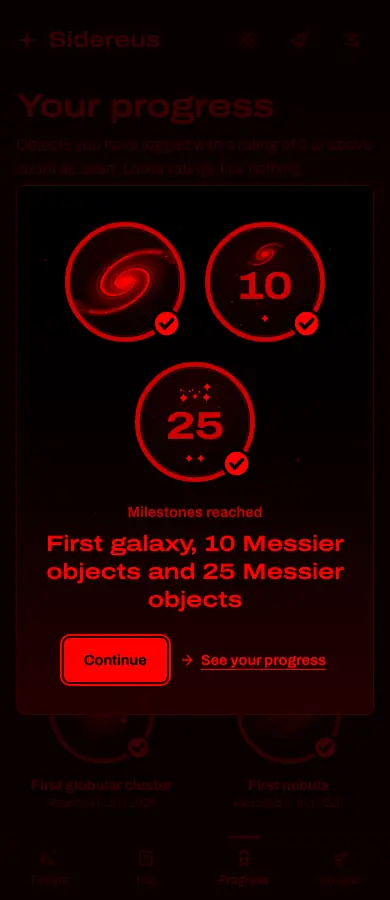
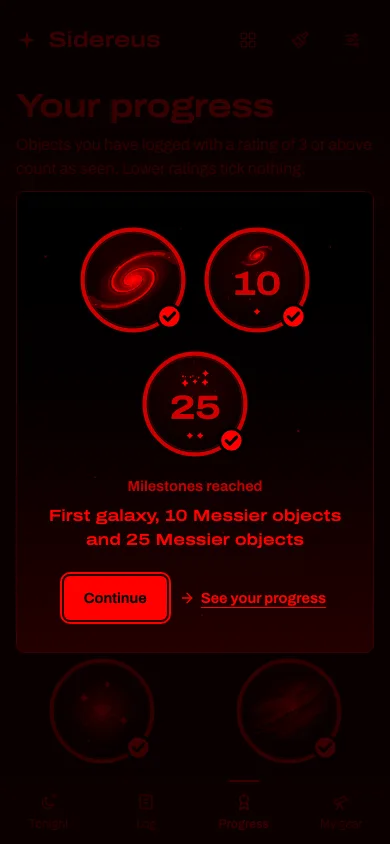
fix(ui-progress-rewards): impl review F3 and F5, the owner's answers (2026-10-17)
- F3: the collapsed Band keeps its h2 in the heading row above the <details>; the <summary> is only the
  toggle, "Show / Hide the Caldwell list" (EN + PL), its text and accessible name swapped by the open state.
  The journey asserts the h2 by role, no heading in the summary, both names, and the tiles hidden then shown.
- F5: the celebration dialog uses 112 px badges for two or more milestones (128 px for one), and the joined
  names at the body role, so Continue stays wholly on a 320 x 568 screen in English and Polish (e2e, with the
  dialog scrolled to its top). Dialog and Caldwell-band screenshots retaken as WebP.

Refs: #215

diff --git a/tests/e2e/observing-milestones.spec.ts b/tests/e2e/observing-milestones.spec.ts
@@ -1,6 +1,7 @@
 import { expect, type Locator, type Page } from "@playwright/test";
 
 import { en } from "@/i18n/messages/en";
+import { pl } from "@/i18n/messages/pl";
 import { LOCALE_COOKIE } from "@/lib/preferences";
 import type { MilestoneKey } from "@/lib/progress/milestones";
 import { createFormatter } from "@/lib/tonight/format";
@@ -144,6 +145,16 @@ test("records a milestone once, at save, keeps it listed, and the progress page 
   await expect(page.getByRole("link", { name: progress.toTonight })).toBeVisible();
   await expect(page.locator("#progress-milestones-heading")).toHaveText(copy.title);
   await expect(page.locator("[data-milestone]")).toHaveCount(11);
+  // The Caldwell band starts closed (owner P8 A). Its heading stays a real h2, outside the disclosure, and the summary
+  // is only the toggle, named for what it does (owner, 2026-10-17, impl review F3).
+  await expect(page.getByRole("heading", { level: 2, name: new RegExp(`^${progress.caldwell} · `) })).toBeVisible();
+  const caldwellToggle = page.locator("details[data-band-collapsible] > summary");
+  await expect(caldwellToggle.locator("h2")).toHaveCount(0);
+  await expect(caldwellToggle).toHaveAccessibleName(progress.caldwellShow);
+  await expect(chip("NGC188")).toBeHidden();
+  await caldwellToggle.click();
+  await expect(caldwellToggle).toHaveAccessibleName(progress.caldwellHide);
+  await expect(chip("NGC188")).toBeVisible();
 
   // 2. M31 rated 2 reaches nothing and ticks nothing: the first galaxy is still ahead, the count stays 0.
   await logEntry(page, "/log/new?object=M31&from=log", 2, /\/log(\?|$)/);
@@ -331,4 +342,36 @@ test("celebrates a milestone once, at save", async ({ page, pinnedNow }) => {
   expect(night).toBe(madridDateDaysAgo(3, pinnedNow()));
   await expect(page.locator("[data-toast]")).toContainText(en.log.list.saved({ object: "M31" }));
   await expectNoCelebration(page);
+});
+
+test("a dialog that names several milestones keeps Continue on a 320 × 568 screen, in English and Polish", async ({
+  page,
+  context,
+  baseURL,
+}) => {
+  test.setTimeout(120_000);
+  await onboardInMadrid(page, "e2e-milestones-several");
+  await page.setViewportSize({ width: 320, height: 568 });
+  const dialog = openCelebration(page);
+  // A save that reaches three milestones lands on a page with three `milestone` params; GearShell opens the dialog
+  // from them, as here. Two or more names get the 112 px badges, two to a row, and the names at the body role (owner,
+  // 2026-10-17, impl review F5). `showModal()` focuses Continue, which scrolls an overflowing dialog to it and hides the
+  // badges, so the check scrolls the dialog back to its top first: from there, Continue must be wholly on screen.
+  const expectContinueOnScreen = async (label: string) => {
+    await expect(dialog).toHaveCount(1);
+    await expect(dialog.locator("[data-milestone-badge]")).toHaveCount(3);
+    await dialog.evaluate((element) => {
+      element.scrollTop = 0;
+    });
+    expect(await dialog.evaluate((element) => element.scrollTop)).toBe(0);
+    await expect(dialog.getByRole("button", { name: label })).toBeInViewport({ ratio: 1 });
+  };
+  await page.goto("/log/progress?milestone=first-galaxy&milestone=messier-10&milestone=messier-25");
+  const badge = await dialog.locator('[data-milestone-badge="first-galaxy"]').boundingBox();
+  expect(badge?.width).toBe(112);
+  await expectContinueOnScreen(copy.celebration.continue);
+  // Polish names are the longest copy.
+  await context.addCookies([{ name: LOCALE_COOKIE, value: "pl", url: baseURL ?? "http://localhost:4321" }]);
+  await page.goto("/log/progress?milestone=first-galaxy&milestone=messier-10&milestone=messier-25");
+  await expectContinueOnScreen(pl.progress.milestones.celebration.continue);
 });

diff --git a/src/i18n/messages/en.ts b/src/i18n/messages/en.ts
@@ -1517,6 +1517,9 @@ export const en = {
     /** Numbers arrive pre-formatted: "47 / 110". */
     count: (p: { seen: string; total: string }) => `${p.seen} / ${p.total}`,
     caldwellNote: "The list covers the Caldwell objects visible from mid-northern latitudes.",
+    /** The Caldwell band's toggle (ui-progress-rewards, impl review F3): its visible text and accessible name. */
+    caldwellShow: "Show the Caldwell list",
+    caldwellHide: "Hide the Caldwell list",
     seenHeading: "Seen so far",
     seen: "seen",
     notSeen: "not seen",

diff --git a/src/i18n/messages/pl.ts b/src/i18n/messages/pl.ts
@@ -1256,6 +1256,8 @@ export const pl = {
     caldwell: "Caldwell",
     count: (p: { seen: string; total: string }) => `${p.seen} / ${p.total}`,
     caldwellNote: "Lista obejmuje obiekty Caldwella widoczne ze średnich szerokości północnych.",
+    caldwellShow: "Pokaż listę Caldwella",
+    caldwellHide: "Ukryj listę Caldwella",
     seenHeading: "Zaobserwowane do tej pory",
     seen: "zaobserwowano",
     notSeen: "jeszcze nie zaobserwowano",

diff --git a/CLAUDE.md b/CLAUDE.md
@@ -8,9 +8,9 @@ This file provides guidance to Claude Code (claude.ai/code) when working with co
 
 Product code so far: the pure sky engine in `src/lib/engine/` and the generated Messier and Caldwell catalogues in `src/lib/catalogue/` (roadmap F-01, S-03), plus per-user observing sites, telescopes and eyepieces managed under `/gear` (S-01), and the gated `/tonight` dashboard (S-02, S-11): the verdict and dark window over tiles that open focused pages, with every object that cleared the bar ranked on `/tonight/targets` by the engine's pure scoring (`score.ts`, `ranking.ts`, `eyepieces.ts`, `verdict.ts`), with the Open-Meteo forecast behind a Workers KV cache in `src/lib/forecast/` (only `kv-cache.ts` imports `cloudflare:workers`; tests pass an in-memory cache). Tonight also shows the next seven nights at the selected site (S-05): `sevenNightOutlook` in the engine gives nights 1-3 a verdict and nights 4-7 only a cloud outlook, rendered by `NightStrip.astro` on `/tonight/nights` (since tonight-dashboard, `/tonight` is a dashboard of tiles opening focused pages for the targets, the Session plan, the Moon, the planets and the nights). The Session plan (S-05, session-plan-timeline) is `TonightView.sessionPlan`, built only with the `withSessionPlan` option of `loadTonightFor` (the dashboard and `/tonight/plan` pass it): the night from sunset to sunrise on one axis, drawn by `SessionTimeline.astro` on `/tonight/plan` as the night's lines (sunset, dark window, Moon, sunrise, one per line), a legend, and one row per recommended target by best time: "Best 22:40 · window 21:40–23:10 · SW, 45°" above a static server SVG altitude curve (each row carries its `track` of altitudes over the axis and `peakAltitudeDeg`, the plan `minAltitudeDeg` and `trackStep`; the geometry is the pure `src/lib/tonight/altitude-curve.ts`, horizon to zenith on one scale), with the dark window shaded, the minimum altitude dashed, the best window thicker and a dot at best (the dashboard's tile shows only the next target). Tonight shows a Site card and a Telescope card (S-05 / S-08, ui-user-adjustments, `GearCard.astro`), each with a select once the user owns two or more: `?site=<id>` and `?telescope=<id>` on the page shell are remembered in the `sidereus-site` / `sidereus-telescope` cookies and reach the `TonightContent` server island as props (ids only, never coordinates), which resolves them against the user's own sites and telescopes (`src/lib/tonight/gear-choice.ts`, falling back to the oldest). The verdict check (M-2 S-07, `src/lib/sky-checks/`) stores the sky headline each signed-in Tonight view shows in the per-user `sky_checks` table: `TonightContent` calls the `record_sky_verdict` RPC through its shared `defer` (the Worker's `waitUntil`), fire and forget, the one database write from a GET in the app; the RPC is idempotent per (user, site, night) and decides with the database clock, overwriting only before the dark window starts and never after an answer. Tonight's `SkyCheckCard` asks about the newest open night of the last two, and `/log/sky` lists every night whose dark window has started with the tally (`claim.ts` holds the match rule); both post plain Astro forms to `POST /api/log/sky/[id]`.
 
-Observing progress (M-3 S-05, observing-progress): `src/lib/progress/` holds `observingProgress(entries)`, one pure rule from log entries to the Messier and Caldwell checklists (110 / 61, catalogue order) and the planets' and Moon's first nights, over `seenSummaries` (entries rated 3 or above, each night once), so progress and the ranking's seen tag cannot drift; its input is `observationStore.listSeenEntries`, which pages the read past PostgREST's 1000-row cap (`night desc, target asc, id asc`; the first page asks for an exact count, later pages advance by the rows received and stop at it, so any `max_rows` reads it all in one request normally), the one seen read for Tonight and the page alike. Tonight marks every target never seen (`notSeenYet`) with `NotSeenMark.astro`: a tooltip button inside a card's `<h3>` (`NotSeenTip`, one `data-open` state driven by `not-seen-tip.ts`) or, where a button is not allowed (the tile's link, a row's `<summary>`), a static icon explained by `NotSeenLegend`. `/log/progress` (`ChecklistGrid`, `SeenList`, the fourth destination in the Topbar and the TabBar) is network-only like `/log`. **Progress rewards** (ui-progress-rewards, S-11): `src/lib/progress/object-family.ts` folds OpenNGC's types into six display families (`OBJECT_FAMILIES`, `FAMILY_OF`, `familyCounts` for a list's seen / total per family; island-safe), and `src/components/progress/progress-icons.ts` is their one icon vocabulary (`OBJECT_FAMILY_ICONS`: lucide `Galaxy` plus five icons drawn with `createLucideIcon`; one concept per icon, none reusing an icon that means something else; kept out of islands by `island-imports.test.ts`). The families are a display grouping: "First nebula" follows `NEBULA_TYPES`, which counts a planetary nebula, so M57 alone reaches it while the legend's "Nebulae" stays at 0 (both rules are right). Each checklist is a `ChecklistLegend` (icon, plural name, seen / total per family) over `ChecklistGrid` tiles, two per row on a phone and four from `sm` (icon, "M31" / "C14", the name: the common name, else a Caldwell designation, else the family's name); a tile's icon is one `<use>` of `ObjectTypeSprite` (a hidden `<symbol>` sheet, rendered once per document: the page and `/design`; hidden by size, never `display: none`). A seen tile is a 2 px `action-border` on `action-surface`, the icon in `primary-strong`, a semibold number and a corner check; not seen a 1 px `border`, all muted. Tiles are not interactive and read aloud through one `sr-only` sentence (`data-tile-sr`, "M31, Andromeda Galaxy, galaxy, seen"). The phone page stays short (owner P8 A): the Caldwell band is `Band`'s `collapsed` option (its heading in the `<summary>` of a native `<details>`, closed on load; Astro only, `band.tsx` has no twin) and each `SeenList` sits in a closed `<details>` ("Seen so far · 5"); no script, no stored state, everything stays in the DOM. Both share `ui/disclosure.ts` (`DISCLOSURE_SUMMARY_CLASS`, `DISCLOSURE_CHEVRON_CLASS`), and each chevron turns through a named group on its own `<details>` (`group/band`, `group/seen`), never a bare `group`, whose `group-open:` would follow any open ancestor. The two grids plus the sprite are pinned under a markup budget in `observing-milestones.spec.ts` (`CHECKLIST_MARKUP_BUDGET`, measured in the change's `implementation-notes.md`). e2e hooks: `data-family`, `data-tile-sr`, `data-legend-family` / `data-legend-count`, `data-milestone-badge`.
+Observing progress (M-3 S-05, observing-progress): `src/lib/progress/` holds `observingProgress(entries)`, one pure rule from log entries to the Messier and Caldwell checklists (110 / 61, catalogue order) and the planets' and Moon's first nights, over `seenSummaries` (entries rated 3 or above, each night once), so progress and the ranking's seen tag cannot drift; its input is `observationStore.listSeenEntries`, which pages the read past PostgREST's 1000-row cap (`night desc, target asc, id asc`; the first page asks for an exact count, later pages advance by the rows received and stop at it, so any `max_rows` reads it all in one request normally), the one seen read for Tonight and the page alike. Tonight marks every target never seen (`notSeenYet`) with `NotSeenMark.astro`: a tooltip button inside a card's `<h3>` (`NotSeenTip`, one `data-open` state driven by `not-seen-tip.ts`) or, where a button is not allowed (the tile's link, a row's `<summary>`), a static icon explained by `NotSeenLegend`. `/log/progress` (`ChecklistGrid`, `SeenList`, the fourth destination in the Topbar and the TabBar) is network-only like `/log`. **Progress rewards** (ui-progress-rewards, S-11): `src/lib/progress/object-family.ts` folds OpenNGC's types into six display families (`OBJECT_FAMILIES`, `FAMILY_OF`, `familyCounts` for a list's seen / total per family; island-safe), and `src/components/progress/progress-icons.ts` is their one icon vocabulary (`OBJECT_FAMILY_ICONS`: lucide `Galaxy` plus five icons drawn with `createLucideIcon`; one concept per icon, none reusing an icon that means something else; kept out of islands by `island-imports.test.ts`). The families are a display grouping: "First nebula" follows `NEBULA_TYPES`, which counts a planetary nebula, so M57 alone reaches it while the legend's "Nebulae" stays at 0 (both rules are right). Each checklist is a `ChecklistLegend` (icon, plural name, seen / total per family) over `ChecklistGrid` tiles, two per row on a phone and four from `sm` (icon, "M31" / "C14", the name: the common name, else a Caldwell designation, else the family's name); a tile's icon is one `<use>` of `ObjectTypeSprite` (a hidden `<symbol>` sheet, rendered once per document: the page and `/design`; hidden by size, never `display: none`). A seen tile is a 2 px `action-border` on `action-surface`, the icon in `primary-strong`, a semibold number and a corner check; not seen a 1 px `border`, all muted. Tiles are not interactive and read aloud through one `sr-only` sentence (`data-tile-sr`, "M31, Andromeda Galaxy, galaxy, seen"). The phone page stays short (owner P8 A): the Caldwell band is `Band`'s `collapsed` option (the content in a native `<details>`, closed on load; the heading stays a real `h2` in the band's heading row above it, and the `<summary>` is only the toggle, "Show the Caldwell list" / "Hide the Caldwell list" (`progress.caldwellShow` / `caldwellHide`), its visible text and accessible name swapped by the open state (owner, 2026-10-17: never a heading inside a `<summary>`); Astro only, `band.tsx` has no twin) and each `SeenList` sits in a closed `<details>` ("Seen so far · 5"); no script, no stored state, everything stays in the DOM. Both share `ui/disclosure.ts` (`DISCLOSURE_SUMMARY_CLASS`, `DISCLOSURE_CHEVRON_CLASS`), and each chevron turns through a named group on its own `<details>` (`group/band`, `group/seen`), never a bare `group`, whose `group-open:` would follow any open ancestor. The two grids plus the sprite are pinned under a markup budget in `observing-milestones.spec.ts` (`CHECKLIST_MARKUP_BUDGET`, measured in the change's `implementation-notes.md`). e2e hooks: `data-family`, `data-tile-sr`, `data-legend-family` / `data-legend-count`, `data-milestone-badge`.
 
-Observing milestones (M-3 S-06, observing-milestones): `src/lib/progress/milestones.ts` derives the 11 `MILESTONES` from `observingProgress` (first Moon, first planet, all planets, first galaxy, globular and nebula, 10 / 25 / 50 / 110 Messier, all Caldwell), each with the night it was reached, and `withStored` lays the stored record over that derivation, so a milestone outlives the entry that reached it. The `observing_milestones` table keeps each milestone once per user (unique `(user_id, key)`); `milestoneStore.record` (`src/lib/observations/milestone-store.ts`) inserts ignoring duplicates and returns the keys it actually stored, so two saves at once cannot both celebrate. RLS lets a user write their own rows directly, accepted by the owner (a forged row fools only its author) and pinned in `tests/db/milestones.test.ts`; a new milestone needs a new migration widening the key check (the test keeps SQL and TypeScript in step). `reachedBySave` in `src/lib/observations/celebrate.ts` runs the order inside each save route: a counting save (a create or an edit rated 3 or above) reads `before`, writes, reads `after`, records `reached(before)` ∪ `reached(after)` in one insert and celebrates `newlyReached` ∩ inserted; an edit to 1-2 or a delete reads and records `before` first, then writes, and never celebrates; a create rated 1-2 does nothing. A failed milestone read or record never blocks the write: `reachedBySave` logs through `logFailure` (steps `milestones.read-create|edit|delete`, `milestones.record-create|edit|delete`, and `milestones.list` and `progress.seen` on the progress page; a fixed line with a shaped name and code, never a message). The redirect carries the reached keys as repeated `milestone` params (`withMilestones`, fixed `MILESTONES` keys, never a value; `milestone` is in the service worker's `NOTICE_PARAMS` (`src/lib/offline/copies.ts`), so a Tonight page that carries it is never stored). `GearShell` renders `MilestoneCelebration.astro` for a signed-in user whose URL has valid keys (`readMilestoneParam`): a native modal `<dialog data-milestone-celebration>` on a night-sky card (the reached milestones' badges, plural label, the names, Continue, "See your progress"; no timer, no date, Esc closes; on close focus goes to `<main>` via `focusMain` from `toasts.ts`, and a save toast's timer waits for it, `celebrationHolding`), which its script opens with `showModal()` and, as it opens, removes the `milestone` params with `history.replaceState` (`withoutParams` from `src/lib/toasts.ts`), so a reload never replays it; the save's own toast shows beside it, and e2e finds the dialog by its attribute, never the toast region. The Milestones band on `/log/progress` (`MilestoneList`) lists all 11, reached (night) or ahead (progress), and is the same rule's persistent view. Since ui-progress-rewards each milestone is a `MilestoneBadge` (shared by `MilestoneList`, `md` 112 px in a 2 / 4-column grid, and the celebration dialog, `lg` 128 px, which shows the reached milestones' badges instead of the old `Award`): one SVG in a 120-unit space with the disc, the milestone's own illustration, the ring, the progress arc and the check pip, in a `night-sky` scope (a navy night window in the light theme, owner 2026-10-17). Reached: sky disc, full art, solid `action-border` ring, pip; ahead: `surface` disc, the art at `opacity-30 dark:opacity-40 red:opacity-60`, a dashed `control-border` ring and, with progress above 0, a solid, wider `primary-strong` arc (`pathLength` 100). The art lives in `src/components/progress/badge-art/<Key>Art.astro`, generated from the owner-approved round by `scripts/badge-art/port.mjs` (`npm run badge-art:port`; change the art in `scripts/badge-art/render.mjs`, whose SVG sources sit in `scripts/badge-art/art/`, and re-run, never by hand; `npm run badge-art:render` draws comparison sheets as PNGs into the gitignored `scripts/badge-art/out/`, never committed): tokens only (`var(--…)`), value steps by `opacity`, detail by shape so red mode reads, ids prefixed by the badge's `idBase`; the large full-red areas (the Moon's body, the count numerals) step down one value in red (`red:opacity-80`). `MilestoneBadge` picks the art in an exhaustive `switch` (a `never` default), so a milestone without art fails `astro check` (a key → component record would not pass the type-aware lint, which types an .astro component used as a value as `error`).
+Observing milestones (M-3 S-06, observing-milestones): `src/lib/progress/milestones.ts` derives the 11 `MILESTONES` from `observingProgress` (first Moon, first planet, all planets, first galaxy, globular and nebula, 10 / 25 / 50 / 110 Messier, all Caldwell), each with the night it was reached, and `withStored` lays the stored record over that derivation, so a milestone outlives the entry that reached it. The `observing_milestones` table keeps each milestone once per user (unique `(user_id, key)`); `milestoneStore.record` (`src/lib/observations/milestone-store.ts`) inserts ignoring duplicates and returns the keys it actually stored, so two saves at once cannot both celebrate. RLS lets a user write their own rows directly, accepted by the owner (a forged row fools only its author) and pinned in `tests/db/milestones.test.ts`; a new milestone needs a new migration widening the key check (the test keeps SQL and TypeScript in step). `reachedBySave` in `src/lib/observations/celebrate.ts` runs the order inside each save route: a counting save (a create or an edit rated 3 or above) reads `before`, writes, reads `after`, records `reached(before)` ∪ `reached(after)` in one insert and celebrates `newlyReached` ∩ inserted; an edit to 1-2 or a delete reads and records `before` first, then writes, and never celebrates; a create rated 1-2 does nothing. A failed milestone read or record never blocks the write: `reachedBySave` logs through `logFailure` (steps `milestones.read-create|edit|delete`, `milestones.record-create|edit|delete`, and `milestones.list` and `progress.seen` on the progress page; a fixed line with a shaped name and code, never a message). The redirect carries the reached keys as repeated `milestone` params (`withMilestones`, fixed `MILESTONES` keys, never a value; `milestone` is in the service worker's `NOTICE_PARAMS` (`src/lib/offline/copies.ts`), so a Tonight page that carries it is never stored). `GearShell` renders `MilestoneCelebration.astro` for a signed-in user whose URL has valid keys (`readMilestoneParam`): a native modal `<dialog data-milestone-celebration>` on a night-sky card (the reached milestones' badges, plural label, the names, Continue, "See your progress"; no timer, no date, Esc closes; on close focus goes to `<main>` via `focusMain` from `toasts.ts`, and a save toast's timer waits for it, `celebrationHolding`), which its script opens with `showModal()` and, as it opens, removes the `milestone` params with `history.replaceState` (`withoutParams` from `src/lib/toasts.ts`), so a reload never replays it; the save's own toast shows beside it, and e2e finds the dialog by its attribute, never the toast region. The Milestones band on `/log/progress` (`MilestoneList`) lists all 11, reached (night) or ahead (progress), and is the same rule's persistent view. Since ui-progress-rewards each milestone is a `MilestoneBadge` (shared by `MilestoneList`, `md` 112 px in a 2 / 4-column grid, and the celebration dialog, which shows the reached milestones' badges instead of the old `Award`: `lg` 128 px for one, `md` 112 px, two to a row, for two or more, with the joined names at the body role instead of the title role, so Continue stays on a 320 × 568 screen in both languages, owner 2026-10-17, pinned in `observing-milestones.spec.ts`): one SVG in a 120-unit space with the disc, the milestone's own illustration, the ring, the progress arc and the check pip, in a `night-sky` scope (a navy night window in the light theme, owner 2026-10-17). Reached: sky disc, full art, solid `action-border` ring, pip; ahead: `surface` disc, the art at `opacity-30 dark:opacity-40 red:opacity-60`, a dashed `control-border` ring and, with progress above 0, a solid, wider `primary-strong` arc (`pathLength` 100). The art lives in `src/components/progress/badge-art/<Key>Art.astro`, generated from the owner-approved round by `scripts/badge-art/port.mjs` (`npm run badge-art:port`; change the art in `scripts/badge-art/render.mjs`, whose SVG sources sit in `scripts/badge-art/art/`, and re-run, never by hand; `npm run badge-art:render` draws comparison sheets as PNGs into the gitignored `scripts/badge-art/out/`, never committed): tokens only (`var(--…)`), value steps by `opacity`, detail by shape so red mode reads, ids prefixed by the badge's `idBase`; the large full-red areas (the Moon's body, the count numerals) step down one value in red (`red:opacity-80`). `MilestoneBadge` picks the art in an exhaustive `switch` (a `never` default), so a milestone without art fails `astro check` (a key → component record would not pass the type-aware lint, which types an .astro component used as a value as `error`).
 
 Sky events (M-3 S-07, sky-events): `skyEvents(site, fromNight, nights, darkThresholdDeg)` (`src/lib/engine/events.ts`, pure; `EVENT_WINDOW_NIGHTS` = 30 nights from the selected one) returns the window's events in moment order: eclipses, greatest elongations and oppositions (searched in `events.ts`), close Moon-planet and planet-planet pairings within 5° computed from the site (`pairings.ts`) and meteor-shower peaks (`meteors.ts`, found by `Search` over the Sun's J2000 longitude, never the of-date `SearchSunLongitude`). **A solar eclipse stays until its partial phase ends** (owner decision A, 2026-10-14): `skyEvents` also returns the previous observing night's solar eclipses whose partial phase ends after the window's start minus 12 h (so the morning eclipse of day D is still returned for the night of D after dawn, with its own earlier `night`), and stays free of the clock. **Visibility and the invariant:** every event carries `visibility`, decided in one place (`visibleAt`: at or above 10° at a sampled moment of the night's dark window, or its twilight span flagged `shortNight`, with the Sun at or below −6°; `eclipseVisibility`: from 2°, "low, needs an open horizon" under 10°; `best` is the peak when the peak is up, else, for a `partly` visible eclipse, the moment the body clears 2° while the phase is still in progress, bisected between the peak and the highest contact, never the contact itself), and only visible events are ever worded as something to go out for (PRD invariant, US-07): the tile, the verdict line and every "best time" read `isNotableEvent` (visible, not a penumbral lunar eclipse). A shower peak is a night, never a minute: the radiant is judged on the peak night, else the night before or after (`bestNight`), and the shower counts for `tonight` and `next` on that best night (`goNight`; the page still groups its row by the peak night, and `meteorEvents` keeps a peak from the two days before the window when its best night is the window's first). The shower table, `src/lib/catalogue/meteor-showers.ts` (keys typed by `SHOWER_KEYS` / `ShowerKey`, which also type `tonight.events.showerName` and `showerNameInLine` in both languages; the bright-Moon note shows on a visible shower only), is eight showers entered by hand as rounded facts (peak night and rate from NASA's pages, radiant and speed from the IAU MDC, each cross-checked; nothing from the IMO, whose list needs written permission; peak longitudes derived by our engine, not copied); its licence note is `LICENSE-DATA.md` ("Meteor showers", not legal advice) and `Attribution.astro` credits both. A solar eclipse row, visible or not, always carries the fixed eye-safety line (`tonight.events.solarSafety`); the tile and the verdict line say "eclipse glasses only". `TonightView.skyEvents` exists only with the `withSkyEvents` option of `buildTonight` / `loadTonightFor` (a failure logs the `tonight.sky-events` step through `logFailure` and drops only that block): `formatSkyEvents` (`src/lib/tonight/sky-events.ts`, which takes the request's `now`; `buildTonight` passes the real one, and the next night's sunset for `night: "next"`) words the events into `events`, `tonight` (notable visible events whose go night is the selected one, solar eclipses first, then by moment, so "eclipse glasses only" never hides behind "+N more") and `next` (the earliest from it on, a solar eclipse winning a tie). A solar eclipse whose partial phase ended before `now` is dropped from all three; one still to come counts in `tonight` (and as `next`) when its local date, in the site's zone, is today or its night is the selected one, and its day is worded from today's date, not from the observing night: `dayWord` (`today` or `tomorrow`) and `at` (the best time, the peak when that is visible), "Today, 11:22" / "Tomorrow, 11:22" (Polish "Dziś, 11:22" / "Jutro, 11:22"), and "Today, 17:04" for an afternoon eclipse on its own day instead of "Tonight" (the tile writes them lowercase between its separators, "· tomorrow, 11:22 ·", like "tonight"); a later day reads its day and time. `/tonight/events` (`EventsPageContent`, `SkyEventList`) lists the whole window by night and is the seventh entry of `TONIGHT_PAGES`. On the dashboard `EventsTile` is the second tile, always shown: `next` ("Perseids peak · night of 12/13 Aug", `eventsTileLine`; `eventsTile` gives `{ line, kind }` and the line leads with `next`'s kind icon) or "Nothing to go out for in the next 30 nights". On an event night `VerdictCard`'s `event` prop adds one muted `Fact` under the reason, led by its event kind's icon (`eventsVerdict` gives `{ line, kind }`), "Tonight: <name>" plus "+1 more" (`eventsVerdictLine`, `data-verdict-event`, no link; a solar eclipse reads "Today, 11:22: …" or "Tomorrow, 11:22: …" from `dayWord` and `at`, and every other event uses its in-sentence `verdictName`, Polish lowercase after the colon: "Dziś: maksimum Orionidów", "Dziś: opozycja Marsa", "Dziś, 11:22: częściowe zaćmienie Słońca, tylko przez okulary do zaćmień"; the Polish titles carry no colon ("Opozycja Marsa", "Największa elongacja Merkurego"), per-key records `elongationName` / `oppositionName` and their `…InLine` forms, never a grammar function; owner, 2026-10-14): no room is reserved (the owner accepts the one-line shift, plan review F3), `VERDICT_MIN_HEIGHT_CLASS` and the skeleton carry the re-measured `min-h-42 sm:min-h-58` (2026-10-15) with nothing added for the event line, and `tonight-phone.spec.ts` hides the line (`[data-verdict-event]{display:none}`) while it measures the cards. The kind icons and the visible / not-visible mark icons (`CircleCheck` / `CircleSlash`) come from the shared map in `fact-icons.ts`, and each detail, the visibility sentence, the notes and the safety line are one `Fact` each. `/design` pins the line, the tile and a `SkyEventList` window (30 nights from 2027-07-25 at Warsaw, with the 2027-08-02 solar eclipse) from fixed data (`src/components/design/event-samples.ts`).
 

diff --git a/context/changes/ui-progress-rewards/plan.md b/context/changes/ui-progress-rewards/plan.md
@@ -663,18 +663,18 @@ answers are still pending.
 ## Impl review triage
 
 Review: `context/changes/ui-progress-rewards/reviews/impl-review.md` (2026-10-17, PR #224, NEEDS ATTENTION, 0 critical, 4
-warnings, 4 observations). Triage by the orchestrator; F3 and F5 wait for the owner.
+warnings, 4 observations). Triage by the orchestrator; the owner answered F3 and F5 on 2026-10-17.
 
-| Finding                                                       | Decision      | What changed                                                                                                                                                                                                                                                                                                                                                                                                                                                                       |
-| ------------------------------------------------------------- | ------------- | ---------------------------------------------------------------------------------------------------------------------------------------------------------------------------------------------------------------------------------------------------------------------------------------------------------------------------------------------------------------------------------------------------------------------------------------------------------------------------------- |
-| F1 nested "Seen so far" chevron follows the Caldwell band     | Fixed         | Named groups: `group/band` + `group-open/band:rotate-180` in `Band.astro`, `group/seen` + `group-open/seen:rotate-180` in `SeenList.astro`, so the inner chevron shows its own state; checked in red at 390 px with the band open and the list closed.                                                                                                                                                                                                                             |
-| F2 the art generator lives in the change folder               | Fixed (A)     | `render.mjs`, `port.mjs` and the 11 SVG sources moved to `scripts/badge-art/` (sources in `scripts/badge-art/art/`); `npm run badge-art:port` / `badge-art:render`; PNG sheets go to the gitignored `scripts/badge-art/out/` (or `--out`); the 11 generated headers and CLAUDE.md point there; re-running the port changes only the two header comment lines of each component; eslint covers and passes the scripts.                                                              |
-| F3 the Caldwell heading inside `<summary>` (VoiceOver)        | Pending owner | Not changed; waits for the owner's VoiceOver check and answer.                                                                                                                                                                                                                                                                                                                                                                                                                     |
-| F4 step 3b allowed a dialog that must not open                | Fixed         | Step 3b asserts `expectNoCelebration` after the re-rate to 4; the `dismissCelebrationIfOpen` helper is gone.                                                                                                                                                                                                                                                                                                                                                                       |
-| F5 the dialog stacks `lg` badges one per row at 320 px        | Pending owner | Not changed; waits for the owner (keep `lg`, or `md` for two or more keys).                                                                                                                                                                                                                                                                                                                                                                                                        |
-| F6 the screenshot gate's before-* comparison has no artefact  | Fixed         | Progress 4.7 names `evidence/impl/`; `evidence/README.md` says the research step's `before-c-*` PNGs were kept out of history and how to retake them.                                                                                                                                                                                                                                                                                                                              |
-| F7 deviations recorded only in code; stale CLAUDE.md sentence | Fixed         | **Deviation:** Phase 2's `MILESTONE_ART: Record<MilestoneKey, …>` in `badge-art/index.ts` became an exhaustive `switch` with a `never` default in `MilestoneBadge` (same compile-time guarantee), because the type-aware lint types an .astro component used as a value as `error` (`no-unsafe-assignment`), so the record could not pass lint; said in a comment there, in CLAUDE.md and in `implementation-notes.md`. CLAUDE.md's dialog sentence names the badges, not `Award`. |
-| F8 small consistency nits                                     | Fixed         | `ui/disclosure.ts` (`DISCLOSURE_SUMMARY_CLASS`, `DISCLOSURE_CHEVRON_CLASS`) shared by both summaries; `band.tsx`'s comment rewrapped; `@/components/progress/progress-icons` imports; a collapsed `Band` specimen on `/design` (with a closed SeenList inside) and matrix notes that list the summaries' hover and focus-visible. The long float coordinates in `Messier25Art` are left as generated (byte-identical port).                                                        |
+| Finding                                                       | Decision                         | What changed                                                                                                                                                                                                                                                                                                                                                                                                                                                                                                                                                                                                                          |
+| ------------------------------------------------------------- | -------------------------------- | ------------------------------------------------------------------------------------------------------------------------------------------------------------------------------------------------------------------------------------------------------------------------------------------------------------------------------------------------------------------------------------------------------------------------------------------------------------------------------------------------------------------------------------------------------------------------------------------------------------------------------------- |
+| F1 nested "Seen so far" chevron follows the Caldwell band     | Fixed                            | Named groups: `group/band` + `group-open/band:rotate-180` in `Band.astro`, `group/seen` + `group-open/seen:rotate-180` in `SeenList.astro`, so the inner chevron shows its own state; checked in red at 390 px with the band open and the list closed.                                                                                                                                                                                                                                                                                                                                                                                |
+| F2 the art generator lives in the change folder               | Fixed (A)                        | `render.mjs`, `port.mjs` and the 11 SVG sources moved to `scripts/badge-art/` (sources in `scripts/badge-art/art/`); `npm run badge-art:port` / `badge-art:render`; PNG sheets go to the gitignored `scripts/badge-art/out/` (or `--out`); the 11 generated headers and CLAUDE.md point there; re-running the port changes only the two header comment lines of each component; eslint covers and passes the scripts.                                                                                                                                                                                                                 |
+| F3 the Caldwell heading inside `<summary>` (VoiceOver)        | Fixed (owner answer, 2026-10-17) | The owner chose to move the heading out now, without waiting for a VoiceOver pass: `Band`'s `collapsed` keeps the `h2` in the band's heading row above the `<details>`, and the `<summary>` is only the toggle, "Show the Caldwell list" / "Hide the Caldwell list" (EN + PL, `progress.caldwellShow` / `caldwellHide`), its visible text and accessible name swapped by the open state through `group/band`. The journey's step 1 asserts the `h2` by role, no heading in the summary, both accessible names, and the Caldwell tiles hidden, then shown.                                                                             |
+| F4 step 3b allowed a dialog that must not open                | Fixed                            | Step 3b asserts `expectNoCelebration` after the re-rate to 4; the `dismissCelebrationIfOpen` helper is gone.                                                                                                                                                                                                                                                                                                                                                                                                                                                                                                                          |
+| F5 the dialog stacks `lg` badges one per row at 320 px        | Fixed (owner answer, 2026-10-17) | `MilestoneCelebration` shows `md` (112 px) badges when it lists two or more milestones and keeps `lg` (128 px) for one. The badges alone did not keep Continue on screen in Polish (five title lines of names; measured: the dialog scrolled 140 px), so a dialog with several milestones also sets the joined names at the body role instead of the title role (one milestone unchanged); flagged for the owner. A new e2e test opens a three-milestone dialog at 320 × 568 and asserts the 112 px badges and Continue wholly in the viewport, in English and Polish; the dialog screenshots were retaken (red 390, PL 320) as WebP. |
+| F6 the screenshot gate's before-* comparison has no artefact  | Fixed                            | Progress 4.7 names `evidence/impl/`; `evidence/README.md` says the research step's `before-c-*` PNGs were kept out of history and how to retake them.                                                                                                                                                                                                                                                                                                                                                                                                                                                                                 |
+| F7 deviations recorded only in code; stale CLAUDE.md sentence | Fixed                            | **Deviation:** Phase 2's `MILESTONE_ART: Record<MilestoneKey, …>` in `badge-art/index.ts` became an exhaustive `switch` with a `never` default in `MilestoneBadge` (same compile-time guarantee), because the type-aware lint types an .astro component used as a value as `error` (`no-unsafe-assignment`), so the record could not pass lint; said in a comment there, in CLAUDE.md and in `implementation-notes.md`. CLAUDE.md's dialog sentence names the badges, not `Award`.                                                                                                                                                    |
+| F8 small consistency nits                                     | Fixed                            | `ui/disclosure.ts` (`DISCLOSURE_SUMMARY_CLASS`, `DISCLOSURE_CHEVRON_CLASS`) shared by both summaries; `band.tsx`'s comment rewrapped; `@/components/progress/progress-icons` imports; a collapsed `Band` specimen on `/design` (with a closed SeenList inside) and matrix notes that list the summaries' hover and focus-visible. The long float coordinates in `Messier25Art` are left as generated (byte-identical port).                                                                                                                                                                                                           |
 
 ## QUESTIONS FOR OWNER
 

diff --git a/context/changes/ui-progress-rewards/evidence/README.md b/context/changes/ui-progress-rewards/evidence/README.md
@@ -9,7 +9,7 @@ Only a handful of key screenshots are committed, as compressed WebP (about 1.5 M
 Committed:
 
 - `impl/page-en-{dark,red,light}-390.webp`, `impl/page-pl-dark-320.webp`, `impl/page-en-dark-1440.webp`: the progress page, full height (Caldwell and "Seen so far" closed).
-- `impl/caldwell-open-red-390.webp`: the Caldwell band opened, red.
-- `impl/dialog-red-390.webp`, `impl/dialog-dark-1440.webp`: the celebration dialog with badges.
+- `impl/caldwell-open-red-390.webp`: the Caldwell band opened, red (retaken after impl review F3: the `h2` above, "Hide the Caldwell list" as the toggle).
+- `impl/dialog-red-390.webp`, `impl/dialog-pl-dark-320.webp` (320 × 568), `impl/dialog-dark-1440.webp`: the celebration dialog with badges; the first two retaken after impl review F5 (112 px badges and body-role names for several milestones; `dialog-dark-1440.webp` predates it).
 - `impl/design-c-milestone-badge-red-390.webp`: the `/design` badge specimens, red.
 - `badge-art/badge-art-sheet.webp`, `badge-art/badge-art-phone-{red,light}.webp`: the approved art (round 1, after the art decisions).
